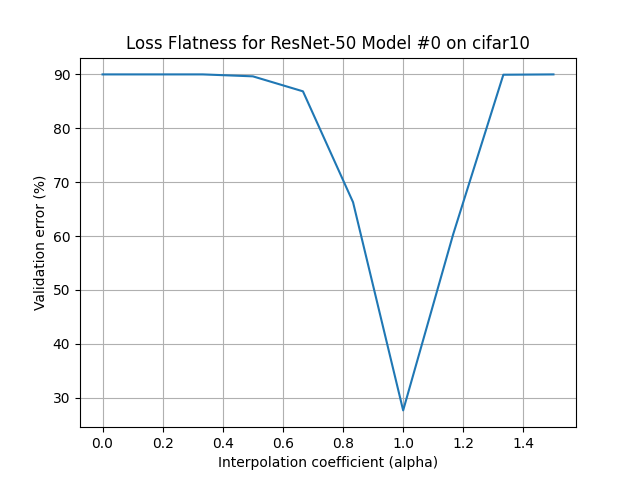
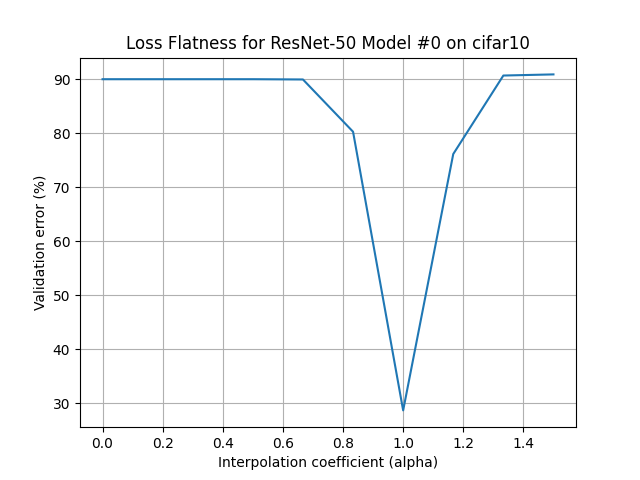
adam stuff

diff --git a/main.py b/main.py
@@ -173,9 +173,9 @@ if __name__ == "__main__":
     parser.add_argument(
         "--optimizer",
         type=str,
-        choices=["sgd", "adam", "fractional_sgd", "fractional_adam"],
+        choices=["sgd", "adam", "fractional-sgd", "fractional-adam"],
         default="sgd",
-        help="Choose optimizer: sgd | adam | fractional_sgd | fractional_adam",
+        help="Choose optimizer: sgd | adam | fractional-sgd | fractional-adam",
     )
     parser.add_argument(
         "--data",
@@ -188,6 +188,7 @@ if __name__ == "__main__":
 
     device = torch.device("cuda" if torch.cuda.is_available() else "cpu")
 
+    # Dataset configuration
     if args.data == "fashion-mnist":
         from data_utils import get_fashion_mnist_loaders
 
@@ -208,26 +209,36 @@ if __name__ == "__main__":
         num_classes = 100
 
     for seed in range(3):
-        print(
-            f"Training {'fractional' if args.use_fractional else 'vanilla'} model #{seed}"
-        )
+        print(f"Training model #{seed} with optimizer: {args.optimizer}")
+
         train_loader, val_loader, test_loader = get_loader_fn(
             data_dir=DATA_DIR, seed=seed
         )
 
         model = ResNet50(num_classes=num_classes, in_channels=in_channels).to(device)
 
-        optimizer = (
-            FractionalSGD(model.parameters(), lr=0.01, alpha=1.5)
-            if args.use_fractional
-            else optim.SGD(model.parameters(), lr=0.01)
-        )
+        # Select optimizer
+        if args.optimizer == "sgd":
+            optimizer = optim.SGD(model.parameters(), lr=0.01)
+            flag = False
+        elif args.optimizer == "adam":
+            optimizer = optim.Adam(model.parameters(), lr=0.001)
+            flag = False
+        elif args.optimizer == "fractional-sgd":
+            optimizer = FractionalSGD(model.parameters(), lr=0.01, alpha=1.5)
+            flag = True
+        elif args.optimizer == "fractional-adam":
+            optimizer = GLAdam(model.parameters(), lr=0.001, alpha=0.8)
+            flag = True
+        else:
+            raise ValueError(f"Unsupported optimizer type: {args.optimizer}")
 
+        # Save initial parameters
         initial_params = {
             name: param.clone().detach() for name, param in model.named_parameters()
         }
 
-        max_epochs = 100
+        max_epochs = 30
         train(model, train_loader, val_loader, optimizer, device, max_epochs=max_epochs)
 
         final_params = {
@@ -244,12 +255,96 @@ if __name__ == "__main__":
             initial_params,
             final_params,
             model_id=seed,
-            flag=args.use_fractional,
+            flag=flag,
             dataset=args.data,
         )
 
         sharpness = compute_sharpness(model, nn.CrossEntropyLoss(), test_loader, device)
         print(f"Sharpness: {sharpness:.2f}%")
+
+
+# if __name__ == "__main__":
+#     parser = argparse.ArgumentParser()
+#     parser.add_argument(
+#         "--optimizer",
+#         type=str,
+#         choices=["sgd", "adam", "fractional_sgd", "fractional_adam"],
+#         default="sgd",
+#         help="Choose optimizer: sgd | adam | fractional_sgd | fractional_adam",
+#     )
+#     parser.add_argument(
+#         "--data",
+#         type=str,
+#         choices=["fashion-mnist", "cifar10", "cifar100"],
+#         default="fashion-mnist",
+#         help="Dataset to use: fashion-mnist, cifar10, or cifar100",
+#     )
+#     args = parser.parse_args()
+
+#     device = torch.device("cuda" if torch.cuda.is_available() else "cpu")
+
+#     if args.data == "fashion-mnist":
+#         from data_utils import get_fashion_mnist_loaders
+
+#         get_loader_fn = get_fashion_mnist_loaders
+#         in_channels = 1
+#         num_classes = 10
+#     elif args.data == "cifar10":
+#         from data_utils import get_cifar10_loaders
+
+#         get_loader_fn = get_cifar10_loaders
+#         in_channels = 3
+#         num_classes = 10
+#     elif args.data == "cifar100":
+#         from data_utils import get_cifar100_loaders
+
+#         get_loader_fn = get_cifar100_loaders
+#         in_channels = 3
+#         num_classes = 100
+
+#     for seed in range(3):
+#         print(
+#             f"Training {'fractional' if args.use_fractional else 'vanilla'} model #{seed}"
+#         )
+#         train_loader, val_loader, test_loader = get_loader_fn(
+#             data_dir=DATA_DIR, seed=seed
+#         )
+
+#         model = ResNet50(num_classes=num_classes, in_channels=in_channels).to(device)
+
+#         optimizer = (
+#             FractionalSGD(model.parameters(), lr=0.01, alpha=1.5)
+#             if args.use_fractional
+#             else optim.SGD(model.parameters(), lr=0.01)
+#         )
+
+#         initial_params = {
+#             name: param.clone().detach() for name, param in model.named_parameters()
+#         }
+
+#         max_epochs = 100
+#         train(model, train_loader, val_loader, optimizer, device, max_epochs=max_epochs)
+
+#         final_params = {
+#             name: param.clone().detach() for name, param in model.named_parameters()
+#         }
+
+#         acc = test(model, test_loader, device)
+#         print(f"Model #{seed} test accuracy: {acc:.2f}%")
+
+#         plot_flatness(
+#             model,
+#             test_loader,
+#             device,
+#             initial_params,
+#             final_params,
+#             model_id=seed,
+#             flag=args.use_fractional,
+#             dataset=args.data,
+#         )
+
+#         sharpness = compute_sharpness(model, nn.CrossEntropyLoss(), test_loader, device)
+#         print(f"Sharpness: {sharpness:.2f}%")
 
 
 # if __name__ == "__main__":
